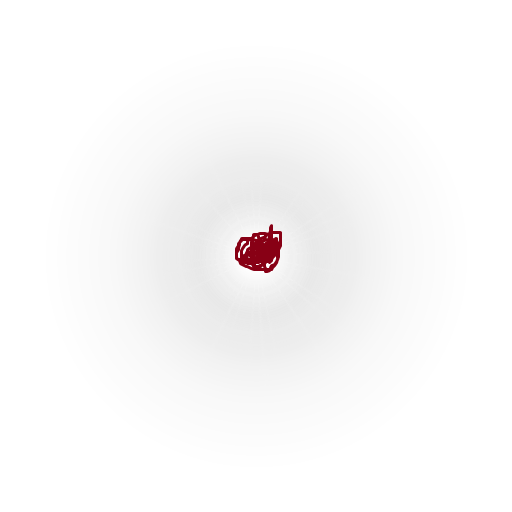
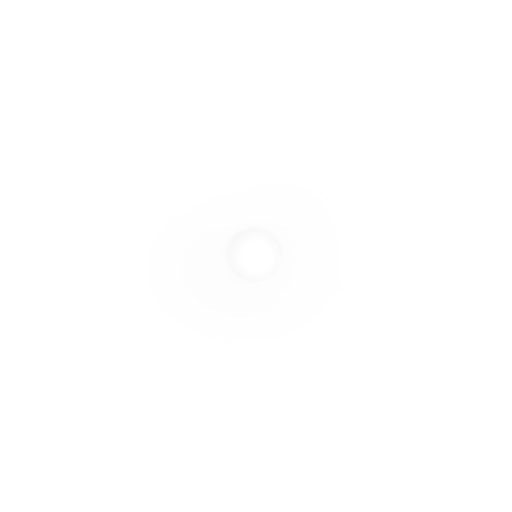
LightGlow masky

Changed region(s): [[0.4375, 0.4375, 0.5625, 0.5312]]

diff --git a/Source/RunActivity/Viewer3D/Lights.cs b/Source/RunActivity/Viewer3D/Lights.cs
@@ -101,21 +101,25 @@ namespace Orts.Viewer3D
                     {
                         case LightType.Glow:
                             LightPrimitives.Add(new LightGlowPrimitive(this, Viewer.RenderProcess, light));
+                            
+                            // Základní typy světelných masek
                             switch (light.LightGlowType)
                             {
                                 case LightGlowType.Bulb:
-                                    (LightPrimitives.Last() as LightGlowPrimitive).SpecificGlowMaterial = viewer.MaterialManager.Load("LightGlow", System.IO.Path.Combine(Viewer.ContentPath, "..\\Content\\FX\\Bulb.png"));
+                                    (LightPrimitives.Last() as LightGlowPrimitive).LightGlowMaterial = viewer.MaterialManager.Load("LightGlow", System.IO.Path.Combine(Viewer.ContentPath, "..\\Content\\FX\\Bulb.png"));
                                     break;
                                 case LightGlowType.Led:
-                                    (LightPrimitives.Last() as LightGlowPrimitive).SpecificGlowMaterial = viewer.MaterialManager.Load("LightGlow", System.IO.Path.Combine(Viewer.ContentPath, "..\\Content\\FX\\Led.png"));
+                                    (LightPrimitives.Last() as LightGlowPrimitive).LightGlowMaterial = viewer.MaterialManager.Load("LightGlow", System.IO.Path.Combine(Viewer.ContentPath, "..\\Content\\FX\\Led.png"));
                                     break;
                                 case LightGlowType.Star:
-                                    (LightPrimitives.Last() as LightGlowPrimitive).SpecificGlowMaterial = viewer.MaterialManager.Load("LightGlow", System.IO.Path.Combine(Viewer.ContentPath, "..\\Content\\FX\\Star.png"));
-                                    break;
-                                case LightGlowType.User:
-                                    (LightPrimitives.Last() as LightGlowPrimitive).SpecificGlowMaterial = viewer.MaterialManager.Load("LightGlow", System.IO.Path.Combine(Viewer.ContentPath, "..\\Content\\FX\\User.png"));
-                                    break;
-                            }                            
+                                    (LightPrimitives.Last() as LightGlowPrimitive).LightGlowMaterial = viewer.MaterialManager.Load("LightGlow", System.IO.Path.Combine(Viewer.ContentPath, "..\\Content\\FX\\Star.png"));
+                                    break;                                                             
+                            }                           
+                            
+                            // Uživatelsky definovaná maska
+                            if (light.LightGlowName != null)                            
+                                (LightPrimitives.Last() as LightGlowPrimitive).LightGlowMaterial = viewer.MaterialManager.Load("LightGlow", System.IO.Path.Combine(Viewer.ContentPath, "..\\Content\\FX\\" + light.LightGlowName));                            
+
                             break;
                         case LightType.Cone:
                             LightPrimitives.Add(new LightConePrimitive(this, Viewer.RenderProcess, light));
@@ -203,7 +207,7 @@ namespace Orts.Viewer3D
             if (Viewer.Camera.CanSee(mstsLocation, objectRadius, objectViewingDistance))
                 foreach (var lightPrimitive in LightPrimitives)
                     if ((lightPrimitive.Enabled || lightPrimitive.FadeOut) && lightPrimitive is LightGlowPrimitive)                    
-                        frame.AddPrimitive((lightPrimitive as LightGlowPrimitive).SpecificGlowMaterial, lightPrimitive, RenderPrimitiveGroup.Lights, ref xnaDTileTranslation);
+                        frame.AddPrimitive((lightPrimitive as LightGlowPrimitive).LightGlowMaterial, lightPrimitive, RenderPrimitiveGroup.Lights, ref xnaDTileTranslation);
                     
 #if DEBUG_LIGHT_CONE
             foreach (var lightPrimitive in LightPrimitives)
@@ -232,7 +236,7 @@ namespace Orts.Viewer3D
             LightConeMaterial.Mark();
             foreach (var lightPrimitive in LightPrimitives)
                 if (lightPrimitive is LightGlowPrimitive)                
-                    (lightPrimitive as LightGlowPrimitive).SpecificGlowMaterial.Mark();                
+                    (lightPrimitive as LightGlowPrimitive).LightGlowMaterial.Mark();                
         }
 
         public static void CalculateLightCone(LightState lightState, out Vector3 position, out Vector3 direction, out float angle, out float radius, out float distance, out Vector4 color)
@@ -713,7 +717,7 @@ namespace Orts.Viewer3D
         static VertexDeclaration VertexDeclaration;
         VertexBuffer VertexBuffer;
         static IndexBuffer IndexBuffer;
-        public Material SpecificGlowMaterial;
+        public Material LightGlowMaterial;
 
         public LightGlowPrimitive(LightViewer lightViewer, RenderProcess renderProcess, Light light)
             : base(light)

diff --git a/Source/Orts.Formats.Msts/LightCollection.cs b/Source/Orts.Formats.Msts/LightCollection.cs
@@ -208,9 +208,8 @@ namespace Orts.Formats.Msts
     {
         Bulb,  // 0
         Led, // 1        
-        Star, // 2        
-        User, // 3      
-    }
+        Star, // 2                
+    }    
     #endregion
 
     /// <summary>
@@ -235,6 +234,7 @@ namespace Orts.Formats.Msts
         public LightHeadlightCondition HeadlightFront;
         public LightHeadlightCondition HeadlightRear;
         public LightGlowType LightGlowType;
+        public string LightGlowName;
 
         public bool Cycle;
         public float FadeIn;
@@ -248,6 +248,7 @@ namespace Orts.Formats.Msts
             stf.ParseBlock(new[] {
                 new STFReader.TokenProcessor("type", ()=>{ Type = (LightType)stf.ReadIntBlock(null); }),
                 new STFReader.TokenProcessor("lightglowtype", ()=>{ LightGlowType = (LightGlowType)stf.ReadIntBlock(null); }),
+                new STFReader.TokenProcessor("lightglowname", ()=>{ LightGlowName = stf.ReadStringBlock(null); }),
                 new STFReader.TokenProcessor("conditions", ()=>{ stf.MustMatch("("); stf.ParseBlock(new[] {
                     new STFReader.TokenProcessor("headlight", ()=>{ Headlight = (LightHeadlightCondition)stf.ReadIntBlock(null); }),
                     new STFReader.TokenProcessor("unit", ()=>{ Unit = (LightUnitCondition)stf.ReadIntBlock(null); }),
@@ -303,6 +304,7 @@ namespace Orts.Formats.Msts
             HeadlightFront = light.HeadlightFront;
             HeadlightRear = light.HeadlightRear;
             LightGlowType = light.LightGlowType;
+            LightGlowName = light.LightGlowName;
 
             foreach (var state in light.States)
                 States.Add(new LightState(state, reverse));

diff --git a/Source/Orts.Simulation/Simulation/RollingStocks/MSTSLocomotive.cs b/Source/Orts.Simulation/Simulation/RollingStocks/MSTSLocomotive.cs
@@ -16603,9 +16603,7 @@ namespace Orts.Simulation.RollingStocks
         }
 
         public void ToggleSwitchEngineUp()
-        {
-            SwitchEngineEnable = true;
-
+        {            
             if (!SwitchEngineEnable || !(this is MSTSDieselLocomotive)) return;
             if (SwitchEnginePosition[LocoStation] < (this as MSTSDieselLocomotive).DieselEngines.Count - 1)
             {
